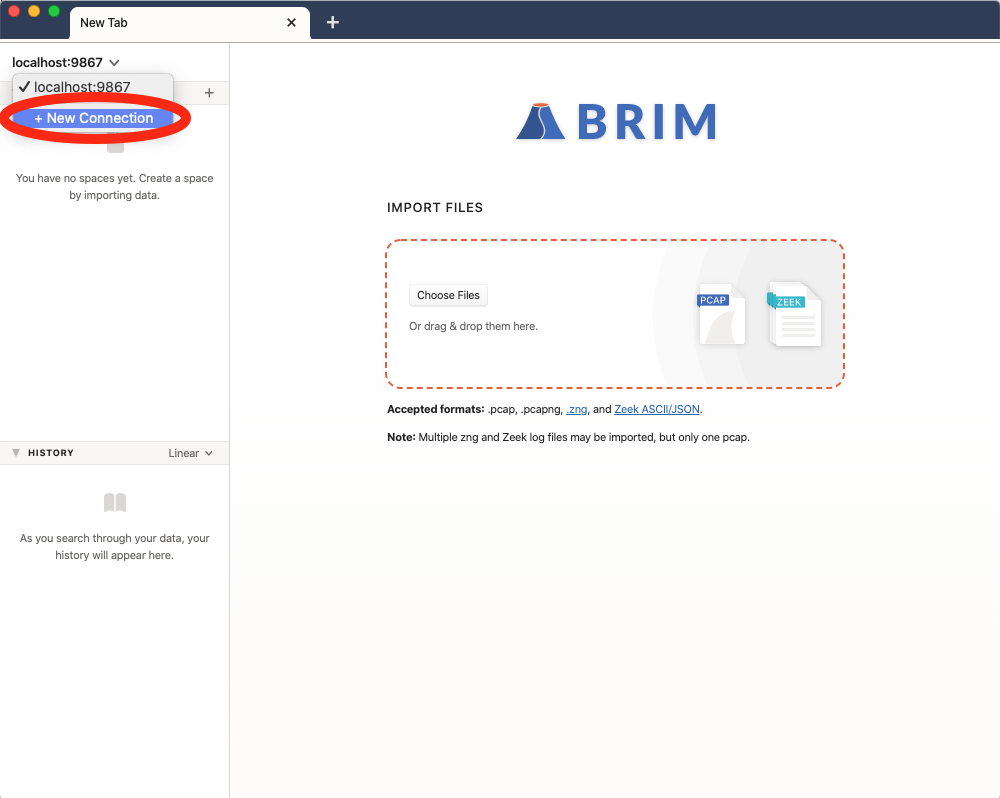
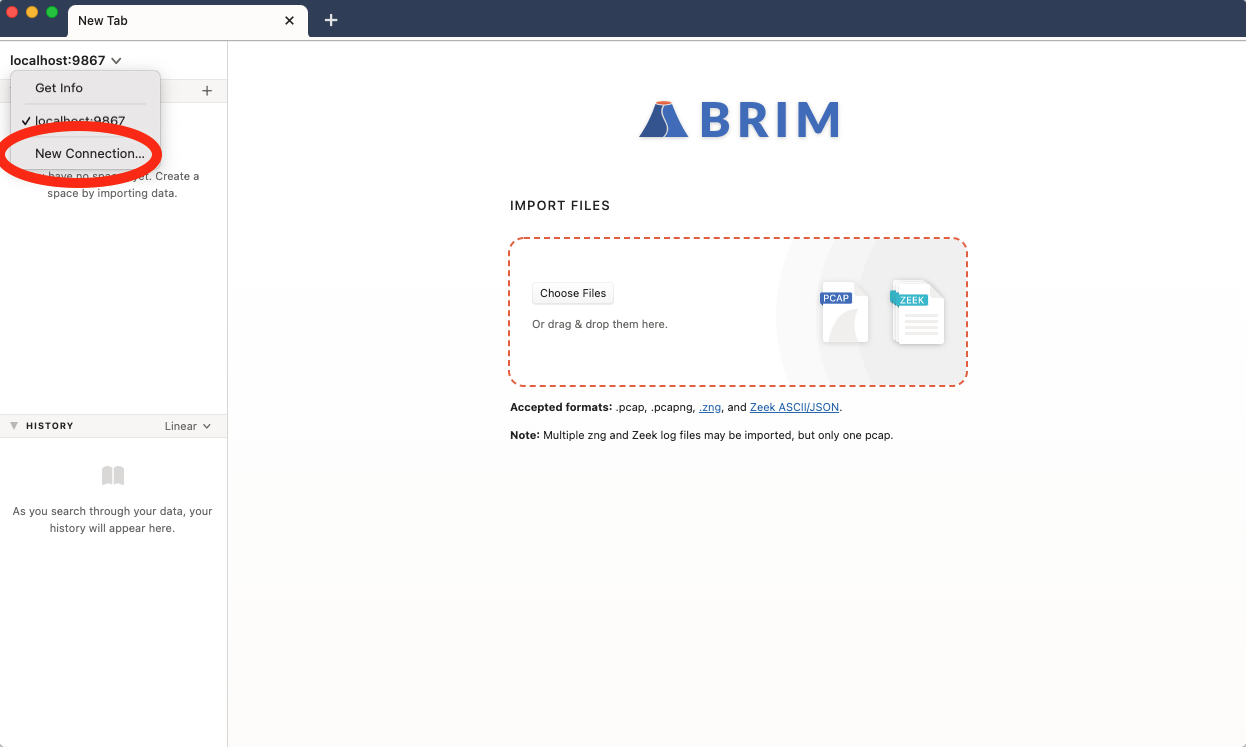
More edits

diff --git a/docs/Remote-zqd.md b/docs/Remote-zqd.md
@@ -20,15 +20,15 @@ cookbook describes the available options and current limitations.
 
 Brim cookbooks provide an opportunity to "test drive" new/experimental
 features in the Brim application and related zq tools. They also walk through
-some details of the details of how Brim and zq tools function and therefore
-may inspire other creative configurations.
+details of how Brim and zq tools function and therefore may inspire other
+creative configurations.
 
 All efforts are made to disclose known caveats and limitations that are
 relevant to the configurations shown. However, due to the potential to
 encounter bugs in evolving functionality, it is recommended that you initially
-follow cookbooks in a non-production, lab-style setting. As features become
-more stable, cookbooks may be retired and replaced with regular
-[User Documentation](https://github.com/brimsec/brim/wiki#user-documentation).
+follow cookbooks in a non-production, lab-style setting. As such features
+become more complete and stable, cookbooks may be retired and replaced with
+regular [User Documentation](https://github.com/brimsec/brim/wiki#user-documentation).
 
 Please report any bugs or usability issues you find when working with cookbooks
 by [opening an issue](https://github.com/brimsec/brim/wiki/Troubleshooting#opening-an-issue)
@@ -39,11 +39,11 @@ shy!
 # Limitations
 
 Before diving into the specifics of what's possible, here's an overview of
-some of the rough edges you may encounter as you work through the
-configurations described in this article.
+some rough edges you may encounter as you work through the configurations
+described in this article.
 
-1. While logs can be imported from your local Brim app directly to a remote
-`zqd`, packet captures currently cannot. Any packet captures you wish to
+1. While **logs** can be imported from your local Brim app directly to a remote
+`zqd`, **packet captures** currently cannot. Any packet captures you wish to
 access remotely will need to have been staged at the remote location.
 
 2. While the configuration potentially allows multiple remote users to access
@@ -59,7 +59,7 @@ visible.
 
 # Background: Brim & `zqd`
 
-Since it's presented as an icon that can be double-clicked to start the app on
+Since it's presented as an icon that can be double-clicked to launch it on
 your desktop, it's easy to think of Brim as a simple standalone application.
 However, it actually includes some "backend" components that assist in
 providing the overall app experience.
@@ -125,9 +125,9 @@ in the following location on each platform:
    | **macOS**     | `/Applications/Brim.app/Contents/Resources/app/zdeps` |
    | **Linux**     | `/usr/lib/brim/resources/app/zdeps`                   |
 
-Now that we know Brim is simply connecting to `zqd` locally, we can vary this
-approach to instead start a remote `zqd` and connect to it to access the logs
-and packet captures stored there.
+Now that we know Brim is simply connecting to `zqd` locally, nexy we'll vary
+this approach to instead start a remote `zqd` and connect to it to access the
+logs and packet captures stored there.
 
 # Starting a remote `zqd`
 
@@ -135,15 +135,15 @@ For our example remote host, we'll use a Linux Ubuntu 18.04 VM running in
 Amazon AWS. Because Brim interacts with `zqd` over a REST API that is still
 evolving, care should be taken to ensure the Brim version being installed on
 the remote side matches the version being run locally. In this cookbook we'll
-use Brim v0.20.0.
+use Brim v0.20.0, which includes `zqd` v0.24.0.
 
 Even though our VM on AWS has no graphical interface, we'll install the full
-Brim package because it includes a compatible `zqd` binary as well as an
+Brim package because it includes the compatible `zqd` binary as well as an
 embedded Zeek that will prove useful if we want to import packet capture data.
 
 ```
 ubuntu# wget https://github.com/brimsec/brim/releases/download/v0.20.0/brim_amd64.deb
-ubuntu# sudo sudo apt install -y ./brim_amd64.deb
+ubuntu# sudo apt install -y ./brim_amd64.deb
 ```
 
 ---
@@ -160,33 +160,15 @@ article.
 
 ---
 
-We can now attempt to start Brim. Since there's no desktop environment on this
-VM, there's no "app" interface to see. However, this attempted launch will
-allow it to create config and data directories in standard locations.
+Since there's no desktop environment on this VM, there's no "app" interface to
+see. Therefore we'll use the path information for the Linux platform shown
+above to start `zqd` manually with a couple modifications, as follows:
 
 ```
-ubuntu# brim
-22:24:54.396 › app paths: getAppPath=/usr/lib/brim/resources/app userData=/home/ubuntu/.config/Brim logs=/home/ubuntu/.config/Brim/logs
-```
-
-If we open another shell on the VM, we can use the same technique we employed
-earlier on our Mac laptop to observe the spawned `zqd` command line and use it
-as a basis for our further config.
-
-```
-ubuntu# ps auxww | grep zqd
-ubuntu    1311  0.0  2.4 1182692 24688 pts/0   SLl+ 22:29   0:00 /usr/lib/brim/resources/app/zdeps/zqd listen -l localhost:9867 -data /home/ubuntu/.config/Brim/data/spaces -config /home/ubuntu/.config/Brim/zqd-config.yaml -zeekrunner /usr/lib/brim/resources/app/zdeps/zeek/zeekrunner -brimfd=3
-```
-
-Now we can stop the app and `zqd` by hitting Control-C in the shell where we'd
-started `brim`. Then we'll start `zqd` manually with a couple modifications
-from the command line we just saw, as follows:
-
-```
+ubuntu# mkdir -p ~/.config/Brim/data/spaces
 ubuntu# /usr/lib/brim/resources/app/zdeps/zqd listen \
           -l :9867 \
           -data /home/ubuntu/.config/Brim/data/spaces \
-          -config /home/ubuntu/.config/Brim/zqd-config.yaml \
           -zeekrunner /usr/lib/brim/resources/app/zdeps/zeek/zeekrunner
 ```
 
@@ -223,17 +205,18 @@ our Linux VM:
 ```
 ubuntu# wget --quiet https://archive.wrccdc.org/pcaps/2018/wrccdc.2018-03-23.010014000000000.pcap.gz
 ubuntu# gunzip wrccdc.2018-03-23.010014000000000.pcap.gz
-ubuntu# /usr/lib/brim/resources/app/zdeps/zapi -s wrccdc pcappost -f wrccdc.2018-03-23.010014000000000.pcap 
+ubuntu# /usr/lib/brim/resources/app/zdeps/zapi -s wrccdc postpcap -f wrccdc.2018-03-23.010014000000000.pcap 
 100.0% 500.0MB/500.0MB
 /home/ubuntu/wrccdc.2018-03-23.010014000000000.pcap: pcap posted
 ```
 
 While it's possible to import logs from the Brim app directly into a remote
-`zqd`, we can use `zapi` on our Linux VM for this as well.
+`zqd`, we can also use `zapi` on our Linux VM. Here we'll import the Zeek TSV
+logs from our [zq-sample-data](https://github.com/brimsec/zq-sample-data).
 
 ```
 ubtunu# git clone --quiet --depth=1 https://github.com/brimsec/zq-sample-data.git
-ubuntu# /usr/lib/brim/resources/app/zdeps/zapi -s sample post -f zq-sample-data/zeek-default/*
+ubuntu# /usr/lib/brim/resources/app/zdeps/zapi -s sample postpath -f zq-sample-data/zeek-default/*
 100.0% 44.71MB/44.71MB
 posted 44.71MB in 21.252418033s
 ```
@@ -268,29 +251,41 @@ wrccdc
 
 # Accessing our remote `zqd`
 
-Now that we've got data imported to our remote `zqd`, we'll access it from the
-Brim app that's running on our Mac laptop in this example.
+Now that we've got data imported into our remote `zqd`, we'll access it from
+the Brim app that's running on our Mac laptop.
 
 The option to initiate a remote connection is available by clicking the
 pull-down that's normally above the Spaces list in the left panel.
 
 ![New Connection option](media/New-Connection-option.png)
 
-A window will pop up into which we can enter the hostname or IP address of
-our remote host where we started `zqd`, then click **Connect**.
+A window will pop up into which we can specify a name for our remote connection
+along with its hostname or IP address. An optional port specification may also
+be included if it's listening on a port other than the default `9867`.
 
 ![New Connection window](media/New-Connection-window.png)
 
 Now the Spaces on our remote `zqd` will appear in the left panel just as we're
-accustomed to doing when working with local data. We can now enter ZQL queries
+accustomed to seeing when working with local data. We can now enter ZQL queries
 and perform all normal workflows. For our Space that was based on the imported
 packet capture, we can extract flows into Wireshark via the **Packets** button
 as usual.
 
 ![Opening a remote flow](media/Remote-Flow-Wireshark.png)
 
-Some additional tips...
+Additional Spaces created on the remote `zqd` are not automatically shown in
+the Brim app. To trigger an immediate refresh, select **View > Reload** from
+the Brim drop-down menu.
+
+---
+
+Text still to be added when the features exist:
+* Deleting a remote connection ([brim/1191](https://github.com/brimsec/brim/issues/1191))
+* Importing logs to a remote `zqd` ([brim/1094](https://github.com/brimsec/brim/issues/1094))
 
 # FAQ
 
-Error message for attempt to immport packet capture to remote
+(Show the error messsage from a failed attempt to import a pcap to a remote
+`zqd` and reiterate that this is currently unsupported. Issue
+[brim/1221](https://github.com/brimsec/brim/issues/1221) is tracking whether we
+can improve this error message first.)
